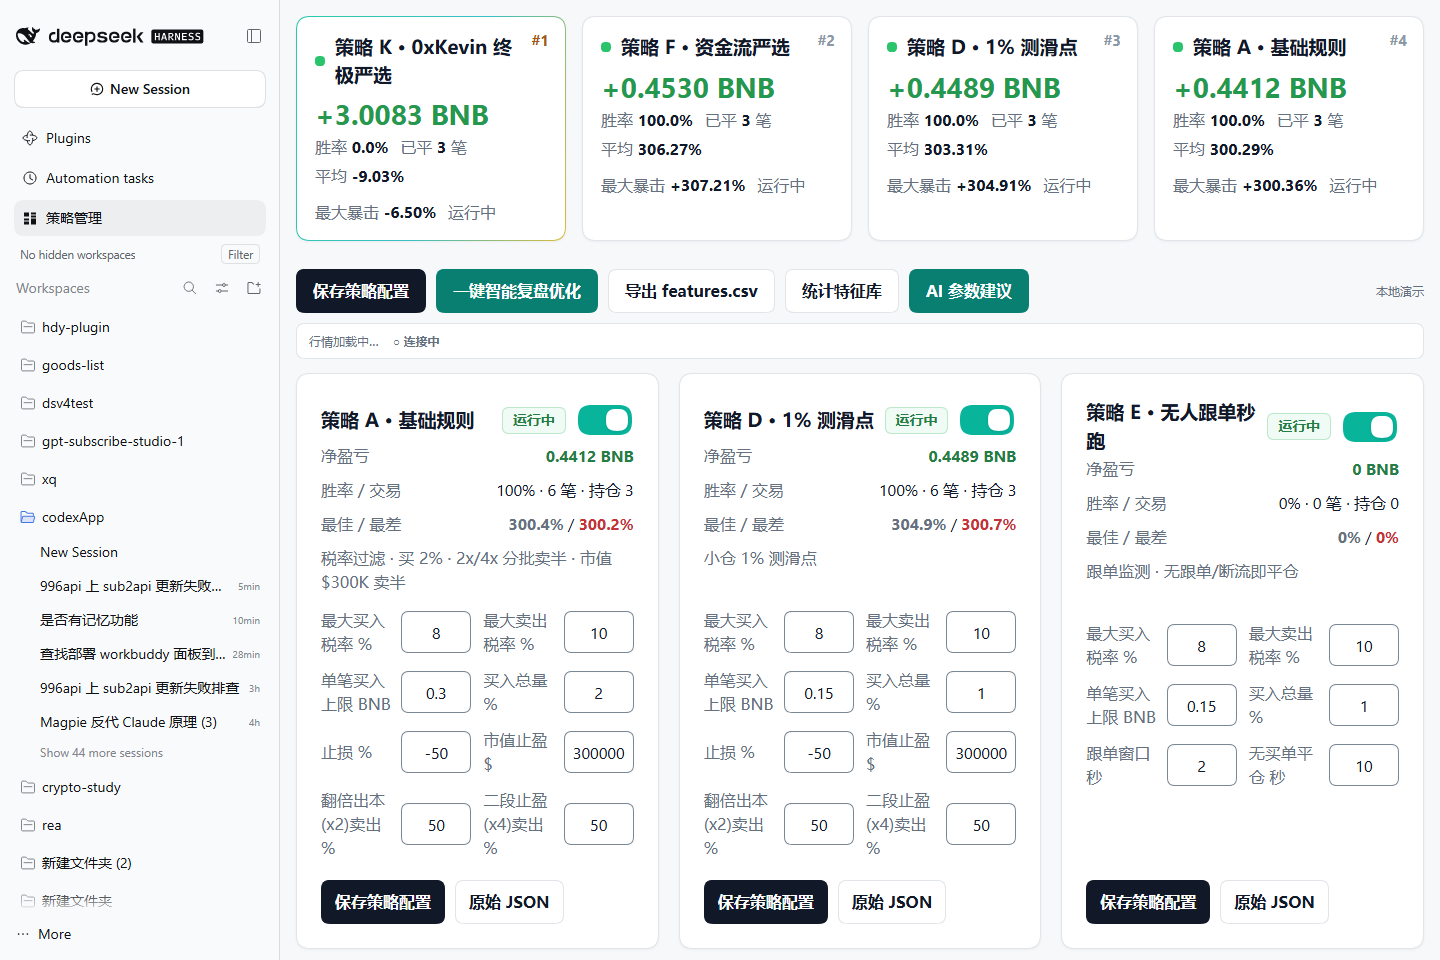
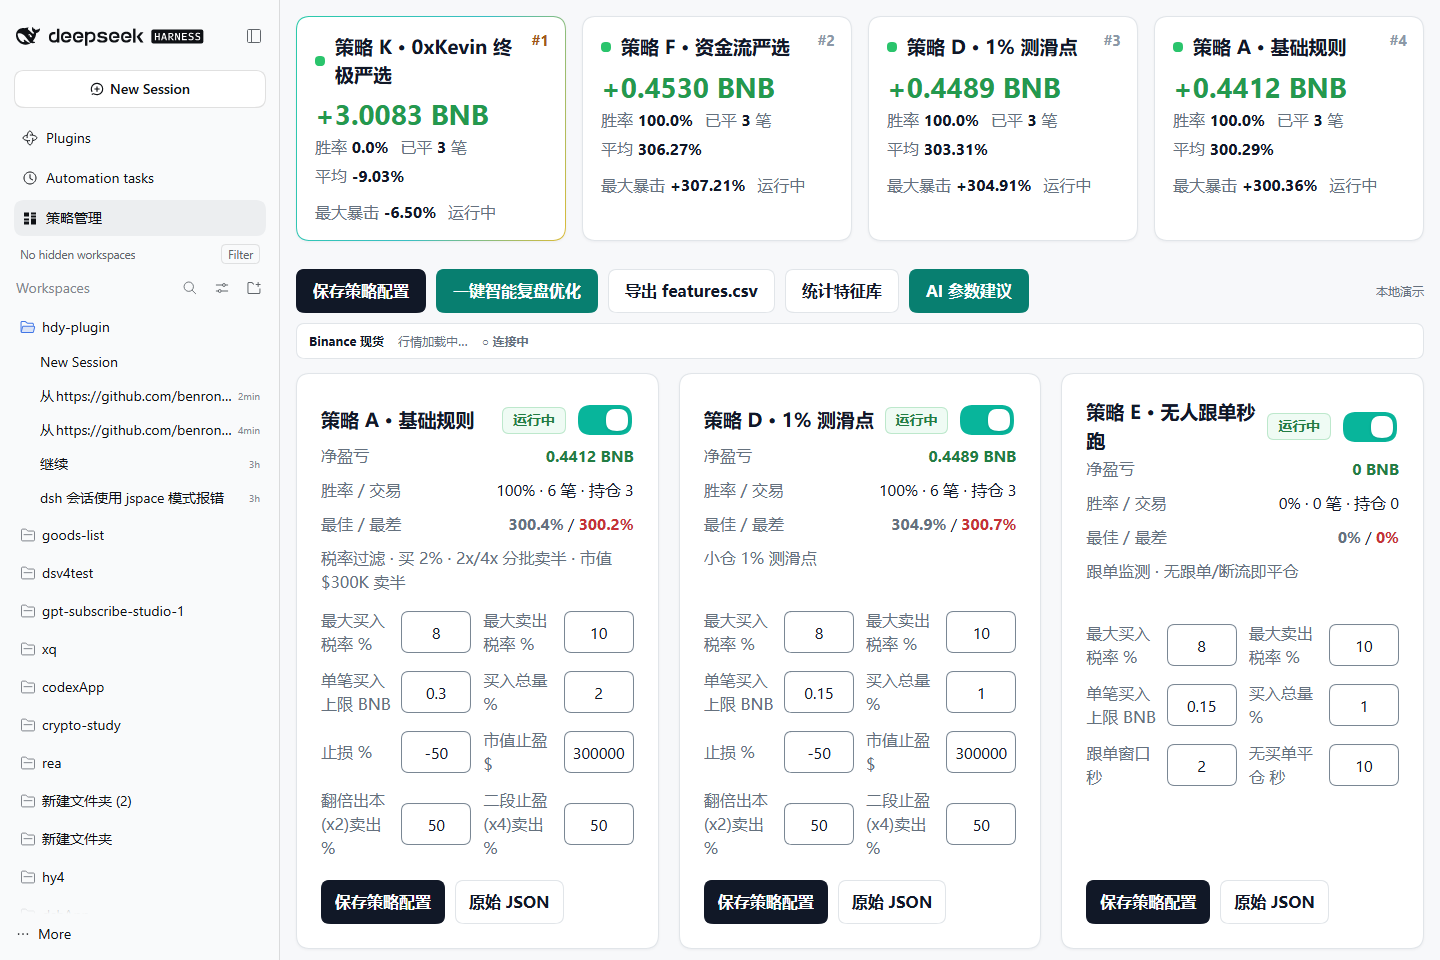
Label market source and mark stale prices; add live exchange verification

Changed region(s): [[0.0, 0.375, 0.1562, 0.9688], [0.2188, 0.3438, 0.3125, 0.375], [0.3438, 0.3438, 0.375, 0.375]]

diff --git a/lib/client.js b/lib/client.js
@@ -2077,7 +2077,9 @@ window.__ModuleLoader__.load({
 			".hdy-strategy .hdy-down{color:var(--hdy-danger)}",
 			".hdy-strategy .hdy-market-time{margin-left:auto}",
 			".hdy-strategy .hdy-market-state{font-weight:700}",
-			".hdy-strategy .hdy-market-error{width:100%}",
+			".hdy-strategy .hdy-market-source{font-weight:700;color:var(--hdy-text);white-space:nowrap}",
+			".hdy-strategy .hdy-market-history{margin-top:-4px}",
+			".hdy-strategy .hdy-market[data-stale='1']{border-color:#e6c98a;background:#fffaf0}",
 			".hdy-strategy .hdy-agent-input{width:100%;min-height:84px;border:1px solid var(--hdy-control-border);border-radius:9px;padding:10px;font:inherit;background:#fff;color:var(--hdy-text)}",
 			".hdy-strategy .hdy-agent-input:focus-visible{outline:2px solid var(--hdy-accent-text);outline-offset:3px}",
 			".hdy-strategy .hdy-agent-result{margin-top:14px}",

diff --git a/README.md b/README.md
@@ -147,7 +147,7 @@ A 策略管理 entry sits directly below 自动化任务 in the sidebar, opening
 
 ### Market data and AI suggestions
 
-- **Market**: host proxies `GET /strategy/market/ticker` and `GET /strategy/market/klines` to `data-api.binance.vision` (public, no key). The page polls every 15s, pauses while hidden and refreshes on return; failures back off 5s→60s; leaving the page aborts in-flight requests. Klines cache for 60s per symbol/interval/limit, in memory only — never in the config key.
+- **Market**: host proxies `GET /strategy/market/ticker` and `GET /strategy/market/klines` to `data-api.binance.vision` (public, no key). The page polls every 15s, pauses while hidden and refreshes on return; failures back off 5s→60s; leaving the page aborts in-flight requests. The strip is labelled `Binance 现货`, shows the update time and `● 实时 / ● 断开，重试中 / ○ 连接中`; on failure the last real prices stay but are marked 「最后更新」and highlighted — nothing is ever filled in with fake values. Klines cache for 60s per symbol/interval/limit, in memory only — never in the config key, and the 「近 7 天 1h」row renders change, volatility, high and low.
 - **AI suggestions**: the toolbar opens an `AI 参数建议` dialog; `POST /strategy/suggest` uses the profile's agent default model (currently `workbuddy-local/cn:deepseek-v4.1-flash`), demands JSON only and retries once with the model's own text when the shape is wrong. The client re-validates every value with the same field validator and marks rejected rows with their reason. Apply writes the draft only; saving stays manual.
 - No new API keys: market is public and the model reuses DSH credentials; no key enters config, CSV, JSON export or logs.
 

diff --git a/README.zh.md b/README.zh.md
@@ -143,7 +143,7 @@ pwsh -File ./dev.ps1
 
 ### 行情与 AI 参数建议
 
-- **行情**：宿主机代理 `GET /strategy/market/ticker`、`GET /strategy/market/klines`，上游 `data-api.binance.vision`（公开、无需 Key）。页面每 15 秒轮询，页面隐藏即暂停、回到前台立刻补一次；失败按 5s→60s 指数退避重连；离开页面中止在途请求。K 线按 symbol/interval/limit 缓存 60 秒（仅内存，不写入配置文件）。
+- **行情**：宿主机代理 `GET /strategy/market/ticker`、`GET /strategy/market/klines`，上游 `data-api.binance.vision`（公开、无需 Key）。页面每 15 秒轮询，页面隐藏即暂停、回到前台立刻补一次；失败按 5s→60s 指数退避重连；离开页面中止在途请求。行情条标注 `Binance 现货`、更新时间与 `● 实时 / ● 断开，重试中 / ○ 连接中`，断开时保留的价格会标成「最后更新」并标黄，绝不补假数据。K 线按 symbol/interval/limit 缓存 60 秒（仅内存，不写入配置文件），面板上的「近 7 天 1h」行展示涨跌幅、波动率与高低点。
 - **AI 建议**：工具条「AI 参数建议」打开弹窗；`POST /strategy/suggest` 走 profile 的 agent default model（当前 `workbuddy-local/cn:deepseek-v4.1-flash`），要求只回 JSON，格式不合规会带原文重试一次；客户端用同一套字段校验复核，越界或格式错误逐条标注拒绝原因。应用只写草稿，仍需手动保存。
 - 不新增任何 API Key：行情公开，模型复用 DSH 已有凭据；密钥不进入配置、CSV、JSON 导出或日志。
 
